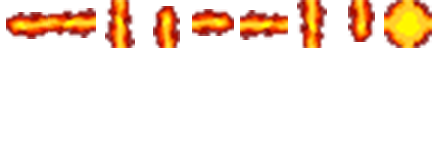
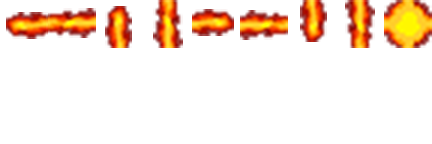
Explosion animation

Changed region(s): [[0.662, 0.0, 0.8727, 0.3333], [0.2407, 0.0, 0.4213, 0.3333]]

diff --git a/src/main/java/it/unibo/unibomber/game/view/ExplosionView.java b/src/main/java/it/unibo/unibomber/game/view/ExplosionView.java
@@ -5,11 +5,13 @@ import java.awt.image.BufferedImage;
 
 import it.unibo.unibomber.game.controller.api.GameLoop;
 import it.unibo.unibomber.game.controller.impl.Explosion;
+import it.unibo.unibomber.utilities.Direction;
 import it.unibo.unibomber.utilities.Pair;
 import it.unibo.unibomber.utilities.UploadRes;
 import it.unibo.unibomber.utilities.Constants.UI.Game;
 
 import static it.unibo.unibomber.utilities.Constants.UI.SpritesMap;
+
 /**
  * Explosion View class.
  */
@@ -19,6 +21,7 @@ public final class ExplosionView implements GameLoop {
 
     /**
      * Explosion view constructor.
+     * 
      * @param controller
      */
     public ExplosionView(final Explosion controller) {
@@ -44,18 +47,36 @@ public final class ExplosionView implements GameLoop {
     @Override
     public void draw(final Graphics g) {
         if (!controller.getExplosionList().isEmpty()) {
+            Pair<Integer, Integer> center = controller.getExplosionList().get().get(0);
             for (Pair<Integer, Integer> p1 : controller.getExplosionList().get()) {
-                g.drawImage(getCorrectImage(), 
-                Math.round(p1.getY() * Game.TILES_SIZE),
-                Math.round(p1.getX() * Game.TILES_SIZE),
-                (int) (Game.TILES_DEFAULT * Game.SCALE),
-                (int) (Game.TILES_DEFAULT * Game.SCALE),
-                null);
+                g.drawImage(
+                        getCorrectImage(Direction.getDistance(p1, center),
+                                Direction.extractDirecionBetweenTwo(center, p1).get()),
+                        Math.round(p1.getY() * Game.TILES_SIZE),
+                        Math.round(p1.getX() * Game.TILES_SIZE),
+                        (int) (Game.TILES_DEFAULT * Game.SCALE),
+                        (int) (Game.TILES_DEFAULT * Game.SCALE),
+                        null);
             }
         }
     }
-    private BufferedImage getCorrectImage() {
-        return animations[0][0];
+
+    private BufferedImage getCorrectImage(int distance, Direction dir) {
+        distance = distance != controller.getBombPower() ? 1 : 0;
+        switch (dir) {
+            case CENTER:
+                return animations[0][8];
+            case DOWN:
+                return animations[0][6 + distance];
+            case UP:
+                return animations[0][2 + distance];
+            case RIGHT:
+                return animations[0][4 + distance];
+            case LEFT:
+                return animations[0][0 + distance];
+            default:
+                return animations[0][8];
+        }
     }
 
 }

diff --git a/src/main/java/it/unibo/unibomber/utilities/Direction.java b/src/main/java/it/unibo/unibomber/utilities/Direction.java
@@ -89,15 +89,15 @@ public enum Direction {
          * return Optiona.of(new Direction(x,y))
          */
         if (dir1.getX() > dir2.getX() && dir1.getY() == dir2.getY()) {
-            return Optional.of(RIGHT);
-        } else if (dir1.getX() < dir2.getX() && dir1.getY() == dir2.getY()) {
-            return Optional.of(LEFT);
-        } else if (dir1.getX() == dir2.getX() && dir1.getY() < dir2.getY()) {
             return Optional.of(UP);
-        } else if (dir1.getX() == dir2.getX() && dir1.getY() > dir2.getY()) {
+        } else if (dir1.getX() < dir2.getX() && dir1.getY() == dir2.getY()) {
             return Optional.of(DOWN);
+        } else if (dir1.getX() == dir2.getX() && dir1.getY() < dir2.getY()) {
+            return Optional.of(RIGHT);
+        } else if (dir1.getX() == dir2.getX() && dir1.getY() > dir2.getY()) {
+            return Optional.of(LEFT);
         }
-        return Optional.empty();
+        return Optional.of(CENTER);
     }
 
     /**
@@ -106,7 +106,16 @@ public enum Direction {
     public static List<Direction> valuesNoCenter() {
         return List.of(LEFT, UP, RIGHT, DOWN);
     }
-
+    /**
+     * @param x1
+     * @param x2
+     * @return distance from two points.
+     */
+    public static int getDistance(final Pair<Integer, Integer> x1,
+    final Pair<Integer, Integer> x2) {
+        return (int) Math.sqrt((x1.getX() - x2.getX()) * (x1.getX() - x2.getX())
+        + (x1.getY() - x2.getY()) * (x1.getY() - x2.getY()));
+    }
     /**
      * @return the current direction 90° shifted
      */

diff --git a/src/main/java/it/unibo/unibomber/game/controller/impl/Explosion.java b/src/main/java/it/unibo/unibomber/game/controller/impl/Explosion.java
@@ -7,6 +7,7 @@ import java.util.Optional;
 import it.unibo.unibomber.game.controller.api.GameLoop;
 import it.unibo.unibomber.game.ecs.api.Entity;
 import it.unibo.unibomber.game.ecs.impl.ExplodeComponent;
+import it.unibo.unibomber.game.ecs.impl.PowerUpListComponent;
 import it.unibo.unibomber.game.view.ExplosionView;
 import it.unibo.unibomber.utilities.Pair;
 import it.unibo.unibomber.game.model.api.Game;
@@ -17,12 +18,13 @@ public final class Explosion implements GameLoop {
     private ExplosionView view;
     private final Game game;
     private Optional<Entity> explode;
-
+    private int power;
     /**
      * Constructor.
      * @param game
      */
     public Explosion(final Game game) {
+        this.power = 1;
         this.game = game;
         view = new ExplosionView(this);
         explode = Optional.empty();
@@ -34,6 +36,7 @@ public final class Explosion implements GameLoop {
      */
     public void setEntityExploding(final Entity entity) {
         this.explode = Optional.of(entity);
+        power = explode.get().getComponent(PowerUpListComponent.class).get().getBombFire();
     }
 
     @Override
@@ -52,7 +55,9 @@ public final class Explosion implements GameLoop {
         }
         return Optional.empty();
     }
-
+    public int getBombPower() {
+        return power;
+    }
     @Override
     public void draw(final Graphics g) {
         view.draw(g);
